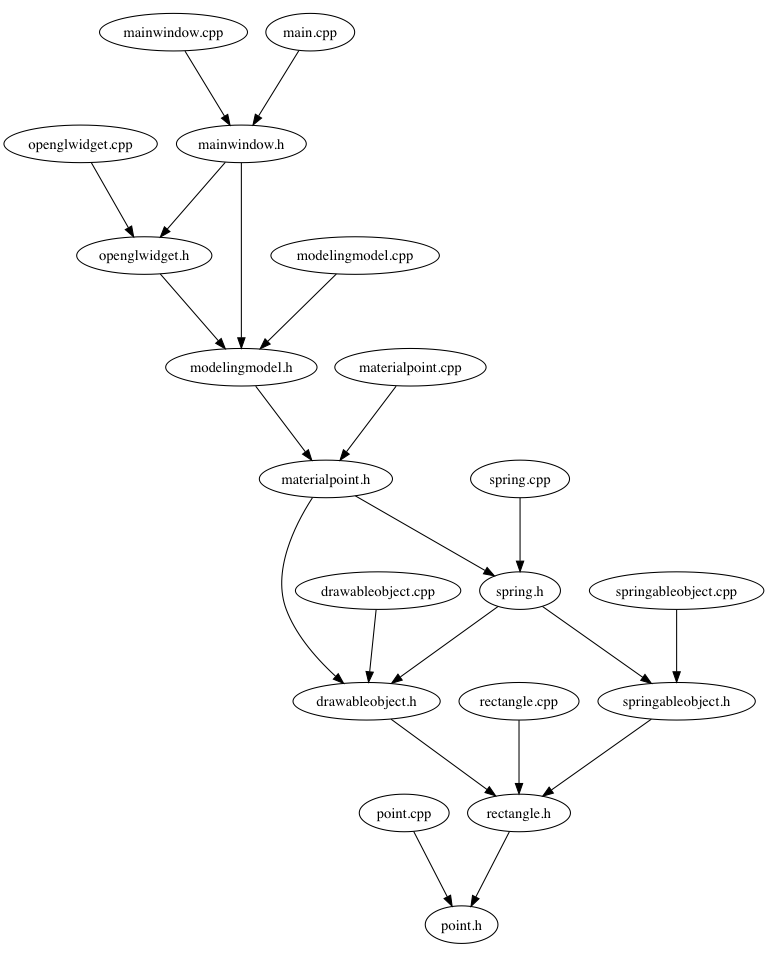
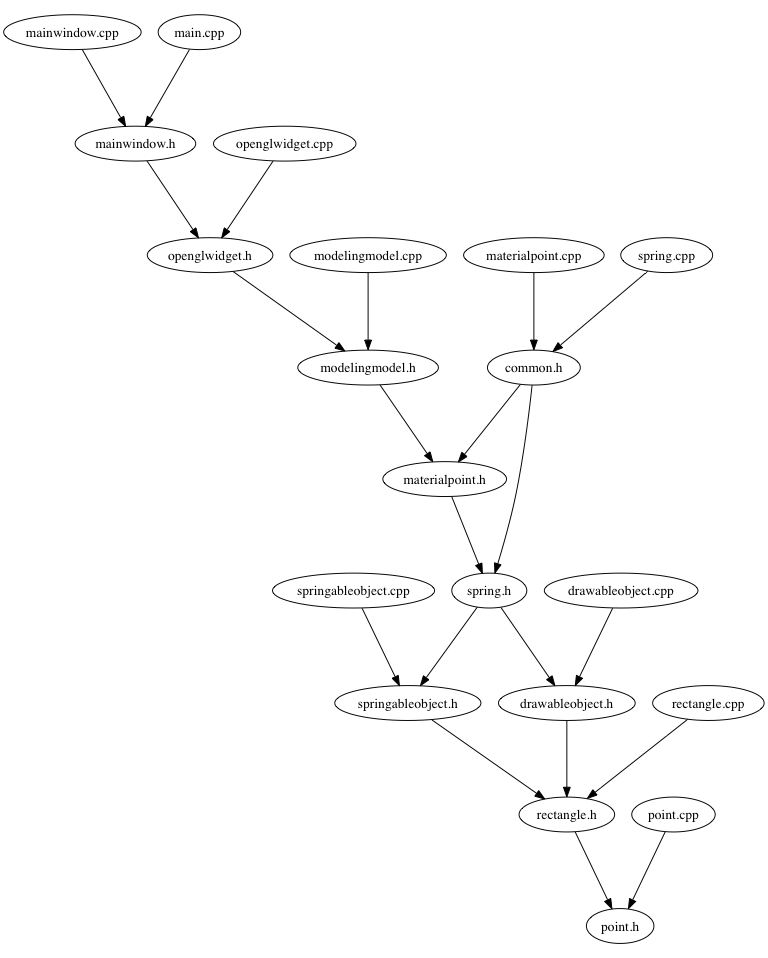
Little refactoring, fixed Model.connectObjects function

diff --git a/mainwindow.cpp b/mainwindow.cpp
@@ -194,25 +194,14 @@ void MainWindow::mousePressEvent(QMouseEvent *event){
 
     if (event->button() == Qt::LeftButton){
         qInfo("left button pressed");
-        QPoint p = event->globalPos();
-        p = centralWidget()->mapFromGlobal(p);
-        qDebug() << p.x() << p.y();
-        Point point = Point((((float)p.x()) / centralWidget()->contentsRect().width() - 0.5) * 2,
-                   (0.5 - ((float)p.y()) / centralWidget()->contentsRect().height()) * 2);
-        qDebug() << centralWidget()->contentsRect().width() << centralWidget()->contentsRect().height();
-        qDebug() << point.x << point.y;
 
-        QVector<MaterialPoint*> matPoints = this->model->getMaterialPoints();
-        QVector<Spring*> springs = this->model->getSprings();
+        Point point = getPointInOpenGLCoordinateFromMouseEvent(event);
 
-        QVector<DrawableObject*> drawableObjects = QVector<DrawableObject*>();
-        for(int i = 0; i < matPoints.length(); i++)
-            drawableObjects.append((DrawableObject*) matPoints[i]);
-
-        for(int i = 0; i < springs.length(); i++)
-            drawableObjects.append((DrawableObject*) springs[i]);
+        QVector<DrawableObject*> drawableObjects = assembleDrawableObjectVector();
 
         bool isCursorInObject = false;
+
+        this->model->completeModel();
 
         for(int i = 0; i < drawableObjects.length(); i++){
 
@@ -220,9 +209,10 @@ void MainWindow::mousePressEvent(QMouseEvent *event){
 
                 qInfo("Found cursor in object");
 
-                if(this->model->getIncompletedObject() != nullptr){
+                if(this->model->getIncompletedObject() != nullptr
+                        && drawableObjects[i] != this->model->getIncompletedObject()){
 
-                    DrawableObject::connectObjects(
+                    model->connectObjects(
                                 drawableObjects[i],
                                 this->model->getIncompletedObject()
                                 );
@@ -258,18 +248,14 @@ void MainWindow::mouseMoveEvent(QMouseEvent *event)
 
     qInfo("MainWindow::mouseMoveEvent()");
 
-    QPoint p = event->globalPos();
-    p = centralWidget()->mapFromGlobal(p);
-    qDebug() << p.x() << p.y();
-    Point point = Point((((float)p.x()) / centralWidget()->contentsRect().width() - 0.5) * 2,
-        (0.5 - ((float)p.y()) / centralWidget()->contentsRect().height()) * 2);
-    qDebug() << point.x << point.y;
+    Point point = getPointInOpenGLCoordinateFromMouseEvent(event);
 
-    if(this->model->getSelectedObject() == nullptr)
-        return;
+    if(this->model->getSelectedObject() != nullptr){
 
-    this->model->getSelectedObject()->moveTo(point);
-    this->centralWidget()->update();
+        this->model->getSelectedObject()->moveTo(point);
+        this->centralWidget()->update();
+
+    }
 
 }
 
@@ -278,7 +264,6 @@ void MainWindow::mouseReleaseEvent(QMouseEvent *event)
 
     qInfo("MainWindow::mouseReleaseEvent");
 
-//    this->model->setSelectedObject(nullptr);
     this->centralWidget()->update();
 
 }
@@ -388,6 +373,35 @@ void MainWindow::showRightDock(){
 
     this->resize(this->size().width() + 80, this->size().height());
     this->propertiesDock->setVisible(true);
+
+}
+
+Point MainWindow::getPointInOpenGLCoordinateFromMouseEvent(QMouseEvent *event)
+{
+
+    QPoint p = event->globalPos();
+
+    p = centralWidget()->mapFromGlobal(p);
+
+    return Point((((float)p.x()) / centralWidget()->contentsRect().width() - 0.5) * 2,
+        (0.5 - ((float)p.y()) / centralWidget()->contentsRect().height()) * 2);
+
+}
+
+QVector<DrawableObject*> MainWindow::assembleDrawableObjectVector()
+{
+
+    QVector<MaterialPoint*> matPoints = this->model->getMaterialPoints();
+    QVector<Spring*> springs = this->model->getSprings();
+
+    QVector<DrawableObject*> drawableObjects = QVector<DrawableObject*>();
+    for(int i = 0; i < matPoints.length(); i++)
+        drawableObjects.append((DrawableObject*) matPoints[i]);
+
+    for(int i = 0; i < springs.length(); i++)
+        drawableObjects.append((DrawableObject*) springs[i]);
+
+    return drawableObjects;
 
 }
 

diff --git a/spring.cpp b/spring.cpp
@@ -1,4 +1,5 @@
-#include "spring.h"
+#include "common.h"
+//#include "spring.h"
 
 Spring::Spring(Rectangle rect)
     :DrawableObject(),
@@ -89,7 +90,7 @@ bool Spring::checkCursorInObject(Point point)
 QVector<Point*> Spring::rotate(QVector<Point*> points)
 {
 
-    this->rotateAngle += 10;
+//    this->rotateAngle += 10;
 
     qDebug() << "Start points";
     for(int i = 0; i < points.length(); i++){
@@ -134,6 +135,20 @@ bool Spring::isModelIncompleted(){
 //        return true;
 
     return false;
+
+}
+
+void Spring::splitWith(MaterialPoint *materialPoint)
+{
+
+    this->rotateAngle = materialPoint->getAngle();
+    Point contactPoint = materialPoint->getContactPoint();
+
+    this->moveTo(
+                Point(
+                    contactPoint.x,// - this->rectangle.width / 2,
+                    contactPoint.y - this->rectangle.height / 2)
+                );
 
 }
 

diff --git a/modelingmodel.cpp b/modelingmodel.cpp
@@ -54,3 +54,44 @@ void ModelingModel::completeModel(){
     }
 
 }
+
+void ModelingModel::connectObjects(DrawableObject *first, DrawableObject *second)
+{
+
+    Spring *incompletedSpring;
+    MaterialPoint *materialPoint;
+
+    if (first->isModelIncompleted()){
+
+        if (first->getType() == SPRING){
+
+            incompletedSpring = (Spring*) first;
+
+        }
+
+        if (second->getType() == MATERIAL_POINT){
+
+            materialPoint = (MaterialPoint*) second;
+
+        }
+
+    }
+    else{
+
+        if (second->getType() == SPRING){
+
+            incompletedSpring = (Spring*) second;
+
+        }
+
+        if (first->getType() == MATERIAL_POINT){
+
+            materialPoint = (MaterialPoint*) first;
+
+        }
+
+    }
+
+    incompletedSpring->splitWith(materialPoint);
+
+}

diff --git a/materialpoint.h b/materialpoint.h
@@ -1,6 +1,6 @@
 #ifndef MATERIALPOINT_H
 #define MATERIALPOINT_H
-#include "drawableobject.h"
+//#include "drawableobject.h"
 #include <math.h>
 #include "spring.h"
 #include <QDebug>
@@ -14,13 +14,15 @@ public:
     void move(Point point);
     void moveTo(Point point);
     bool checkCursorInObject(Point point);
-    float getAngle();
-    Point getContactPoint();
     void addConnectedSpring(Spring *spring);
     QVector<Spring*> getConnectedSprings();
     void setRadius(float r){radius = r;}
     void setWeight(int w){weight = w;}
     bool isModelIncompleted(){return false;}
+
+    float getAngle();
+    Point getContactPoint();
+
 
 private:
     Point center;

diff --git a/drawableobject.cpp b/drawableobject.cpp
@@ -4,29 +4,3 @@ DrawableObject::DrawableObject()
 {
 
 }
-
-bool DrawableObject::connectObjects(DrawableObject *first, DrawableObject *second)
-{
-
-/*    Spring *incompletedSpring;
-    MaterialPoint *materialPoint;
-
-    if (first->isModelIncompleted()){
-
-        if (first->getType() == SPRING){
-
-            incompletedSpring = (Spring*) first;
-
-        }
-
-        if (second->getType() == MATERIAL_POINT){
-
-            materialPoint = (MaterialPoint*) second;
-
-        }
-
-    }
-
-    */
-
-}

diff --git a/mainwindow.h b/mainwindow.h
@@ -9,7 +9,7 @@
 #include <QOpenGLWidget>
 #include <QContextMenuEvent>
 #include <QVBoxLayout>
-#include "modelingmodel.h"
+//#include "modelingmodel.h"
 #include "openglwidget.h"
 #include <QtDebug>
 //#include "springableobject.h"
@@ -91,6 +91,10 @@ private:
 
     void hideRightDock();
     void showRightDock();
+
+    //helpers functions
+    Point getPointInOpenGLCoordinateFromMouseEvent(QMouseEvent *event);
+    QVector<DrawableObject*> assembleDrawableObjectVector();
 
 private slots:
 

diff --git a/spring.h b/spring.h
@@ -8,6 +8,9 @@
 #include <QVector3D>
 #include <springableobject.h>
 
+class MaterialPoint;
+class DrawableObject;
+
 class Spring: public DrawableObject
 {
 public:
@@ -20,6 +23,7 @@ public:
     SpringableObject *getFirstSpringable(){return first;}
     SpringableObject *getSecongSpringable(){return second;}
     bool isModelIncompleted();
+    void splitWith(MaterialPoint *materialPoint);
 
 private:
 

diff --git a/modelingmodel.h b/modelingmodel.h
@@ -28,6 +28,8 @@ public:
     void setIncompletedObjecT(DrawableObject *obj){incompletedObject = obj;}
     DrawableObject *getIncompletedObject(){return incompletedObject;}
 
+    void connectObjects(DrawableObject *first, DrawableObject *second);
+
 private:
     bool isPlaying;
 

diff --git a/drawableobject.h b/drawableobject.h
@@ -28,10 +28,6 @@ public:
     void setType(DrawableType t){type = t;}
     DrawableType getType(){return type;}
 
-    static bool connectObjects(DrawableObject *first, DrawableObject *second);
-
-
-
 private:
     bool isSelected = false;
 

diff --git a/materialpoint.cpp b/materialpoint.cpp
@@ -1,4 +1,5 @@
-#include "materialpoint.h"
+#include "common.h"
+//#include "materialpoint.h"
 
 MaterialPoint::MaterialPoint(Point c, float r)
     :DrawableObject(),

diff --git a/common.h b/common.h
@@ -1,0 +1,7 @@
+#ifndef COMMON_H
+#define COMMON_H
+
+#include "materialpoint.h"
+#include "spring.h"
+
+#endif // COMMON_H

diff --git a/point.h b/point.h
@@ -1,7 +1,6 @@
 #ifndef POINT_H
 #define POINT_H
 
-
 struct Point{
 
     float x;
